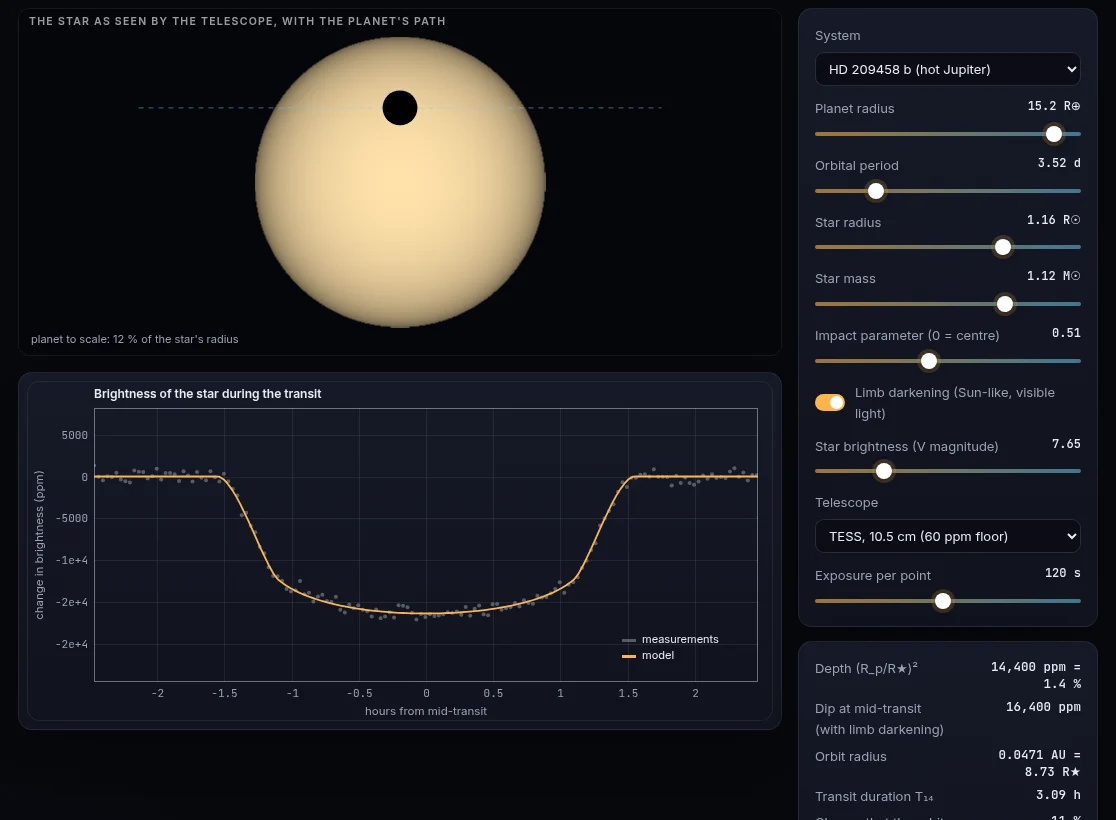
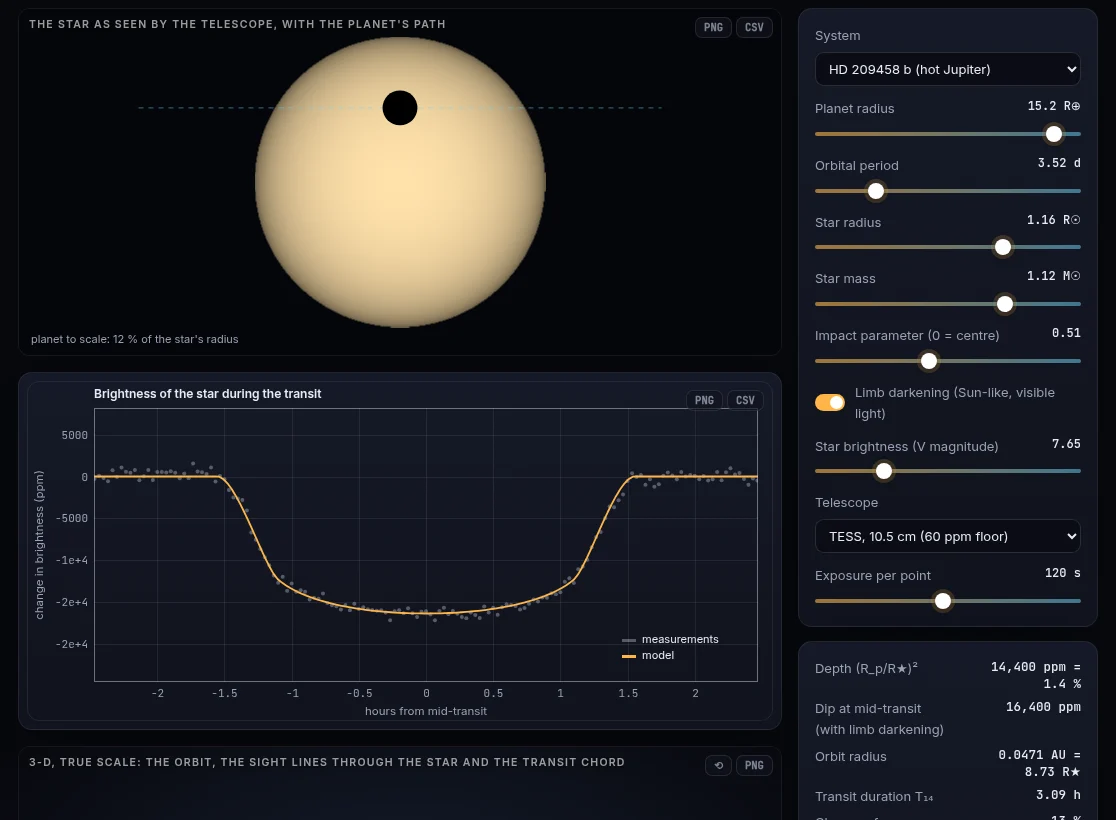
fix(transits): valid systems, exact occultation, exposure-averaged SNR (#229)
than the orbit are reported as impossible systems, not as missed
transits. The transit chance is (R★ + R_p)/a, below 1 for every valid
system. The occulted flux integrates I(r)·θ(r)·r over the overlap with
Gauss-Legendre on smoothed pieces. It matches the analytic circle
overlap to 1e-8 for k up to 1.83 and is exactly 0 when the planet
covers the star and exactly 1 without overlap.

supersampled to T14/200. The SNR comes from those exposures' deficits,
so ingress, egress, grazing dips and transits shorter than an exposure
count with their real depth. The plot, readouts and live equation use
the same sampled data.

transit and independent between transits (Pont et al. 2006):
SNR² = (Σd² − σ_r²(Σd)²/(σ_w² + nσ_r²))/σ_w² with a known baseline.
More exposures no longer beat the floor. Photon noise and floor are
shown separately, the aperture area is 10⁴π(D/2)² cm² with D in
metres, and the theory states the common V-band model and the limits
of the 7.1 threshold.

Closes #193
Closes #194
Closes #195

diff --git a/js/modules/transits.js b/js/modules/transits.js
@@ -3,7 +3,7 @@ import { h, controls, stage, readouts, imageCanvas, fmt, texNum } from '../lib/u
 import { header, lab, idea, rule, theory, references, liveCalc } from '../lib/page.js';
 import { plot } from '../lib/plot.js';
 import { makeRng } from '../lib/random.js';
-import { fluxAt, intensity, orbit, zAt, precision, transitSNR, REARTH, RSUN, AU, DAY } from '../lib/transit.js';
+import { fluxAt, intensity, orbit, zAt, precision, transitSNR, sampleTransit, REARTH, AU } from '../lib/transit.js';
 import { view3d } from '../lib/gl3d.js';
 import { transitScene } from '../lib/transit3d.js';
 import { t } from '../lib/i18n.js';
@@ -59,40 +59,57 @@ export default function mount(root, meta) {
     const st = ctl.state, sc = SCOPES[st.scope];
     const u = st.ld ? [0.4, 0.26] : [0, 0];
     const o = orbit({ P: st.P, Mstar: st.M, Rstar: st.R, Rp: st.Rp * REARTH, b: st.b });
-    const sig = precision({ V: st.V, D: sc.D, q: sc.q, t: st.t, floor: sc.floor });
-    const transits = isFinite(o.T14);
-    const nIn = transits ? Math.max(1, Math.floor(o.T14 / st.t)) : 0;
-    const centre = 1 - fluxAt(st.b, o.k, u[0], u[1]);
-    const snr1 = transits ? transitSNR(centre * 1e6, sig, nIn) : 0;
+    const sigW = precision({ V: st.V, D: sc.D, q: sc.q, t: st.t }), sigR = sc.floor; // ppm
+    const transits = o.valid && isFinite(o.T14);
+    const sys = { P: st.P, aR: o.aR, inc: o.inc, k: o.k, u1: u[0], u2: u[1], T14: o.T14 };
+    const centre = o.valid ? 1 - fluxAt(st.b, o.k, u[0], u[1]) : 0;
+    // the light curve over ±0.8 T14 (±3 h without a transit), and back-to-back exposures, each the
+    // average of the light curve over its length; the SNR comes from these same exposures
+    const span = transits ? Math.max(0.8 * o.T14, 1.5 * st.t) : 3 * 3600, n = 160;
+    const model = o.valid ? Array.from({ length: n }, (_, i) => { const tt = -span + (2 * span * i) / (n - 1); return [tt / 3600, fluxAt(zAt(tt, st.P, o.aR, o.inc), o.k, u[0], u[1])]; }) : [];
+    const exps = transits ? sampleTransit(sys, st.t, span) : [];
+    const d = exps.map(([, f]) => 1 - f), nIn = d.filter((x) => x > 0).length;
+    const snr1 = transits ? transitSNR(d, sigW * 1e-6, sigR * 1e-6) : 0;
     const need = snr1 > 0 ? Math.ceil((7.1 / snr1) ** 2) : Infinity;
-    // light curve over ±0.8 T14 (or ±3 h when there is no transit)
-    const span = transits ? 0.8 * o.T14 : 3 * 3600, n = 160;
-    const model = Array.from({ length: n }, (_, i) => { const tt = -span + (2 * span * i) / (n - 1); return [tt / 3600, fluxAt(zAt(tt, st.P, o.aR, o.inc), o.k, u[0], u[1])]; });
-    const rng = makeRng(7), pts = [];
-    for (let tt = -span; tt <= span; tt += st.t) { if (pts.length > 4000) break; pts.push([tt / 3600, fluxAt(zAt(tt, st.P, o.aR, o.inc), o.k, u[0], u[1]) + (sig * 1e-6) * rng.g()]); }
-    M = { st, o, u, sig, nIn, centre, snr1, need, model, pts, transits };
+    const sumD = d.reduce((a, x) => a + x, 0), sumD2 = d.reduce((a, x) => a + x * x, 0);
+    // what the telescope records: white noise per exposure and a slow drift of the floor's size
+    // (an Ornstein–Uhlenbeck process lasting about a transit), for the picture only
+    const rng = makeRng(7), tau = transits ? o.T14 : 3 * 3600, rho = Math.exp(-st.t / tau);
+    let drift = sigR * 1e-6 * rng.g();
+    const pts = (transits ? exps : Array.from({ length: Math.min(4001, 2 * Math.floor(span / st.t) + 1) }, (_, i) => [(i - Math.floor(span / st.t)) * st.t, 1]))
+      .map(([tt, f]) => { drift = rho * drift + Math.sqrt(1 - rho * rho) * sigR * 1e-6 * rng.g(); return [tt / 3600, f + sigW * 1e-6 * rng.g() + drift]; });
+    M = { st, o, u, sig: Math.hypot(sigW, sigR), centre, model, pts, transits };
+    const na = '—';
     ro.replaceChildren(readouts([
-      ['Depth (R_p/R★)²', fmt(o.depth * 1e6, 3) + ' ppm = ' + (o.depth * 100).toPrecision(2) + ' %'],
-      ['Dip at mid-transit (with limb darkening)', fmt(centre * 1e6, 3) + ' ppm'],
+      ['Depth (R_p/R★)²', o.k >= 1 ? t('{v} (planet larger than the star: up to 100 %)', { v: fmt(o.depth, 3) }) : fmt(o.depth * 1e6, 3) + ' ppm = ' + (o.depth * 100).toPrecision(2) + ' %'],
+      ['Dip at mid-transit (with limb darkening)', o.valid ? fmt(centre * 1e6, 3) + ' ppm' : na],
       ['Orbit radius', (o.a / AU).toPrecision(3) + ' AU = ' + o.aR.toPrecision(3) + ' R★'],
-      ['Transit duration T₁₄', transits ? (o.T14 / 3600).toPrecision(3) + ' h' : t('no transit (b > 1 + k)')],
-      ['Chance that the orbit is aligned (R★/a)', (o.prob * 100).toPrecision(2) + ' %'],
-      ['Precision per point', fmt(sig, 3) + ' ppm'],
-      ['SNR of one transit', transits ? snr1.toFixed(1) : '—'],
-      ['Transits for a detection (SNR 7.1)', isFinite(need) ? String(need) : '—'],
+      ['Transit duration T₁₄', transits ? (o.T14 / 3600).toPrecision(3) + ' h' : o.valid ? t('no transit (b > 1 + k)') : na],
+      ['Chance of any transit, (R★ + R_p)/a', o.valid ? (o.prob * 100).toPrecision(2) + ' %' : na],
+      ['Photon noise per exposure', fmt(sigW, 3) + ' ppm'],
+      ['Correlated floor per transit', fmt(sigR, 3) + ' ppm'],
+      ['Exposures in transit', transits ? String(nIn) : na],
+      ['SNR of one transit', transits ? snr1.toFixed(1) : na],
+      ['Transits for a detection (SNR 7.1)', isFinite(need) ? String(need) : na],
     ]));
-    calc.say(transits
-      ? t('The planet blocks <strong>{ppm} ppm</strong> of the starlight for <strong>{h} hours</strong>. With {sig} ppm of noise per {dt} s point, one transit is detected at signal-to-noise <strong>{snr}</strong>.', { ppm: fmt(centre * 1e6, 3), h: (o.T14 / 3600).toPrecision(2), sig: fmt(sig, 3), dt: st.t.toFixed(0), snr: snr1 >= 100 ? snr1.toFixed(0) : snr1.toFixed(1) })
-        + ' ' + (snr1 >= 7.1 ? t('That is a clear detection.') : t('About {n} transits ({y} years) are needed.', { n: need, y: fmt((need * st.P) / 365.25, 2) }))
-      : t('At impact parameter {b} the planet passes beside the star: no transit is seen from this direction.', { b: st.b.toFixed(2) }));
+    const D2 = { ppm: fmt(centre * 1e6, 3), h: (o.T14 / 3600).toPrecision(2), sig: fmt(sigW, 3), floor: fmt(sigR, 3), dt: st.t.toFixed(0), n: nIn, snr: snr1 >= 100 ? snr1.toFixed(0) : snr1.toFixed(1) };
+    calc.say(!o.valid
+      ? (o.reason === 'inside'
+        ? t('No such system: an orbit of {a} stellar radii lies inside the star (it must be wider than R★ + R_p = {m} R★). Lengthen the period, or choose a smaller star or planet.', { a: o.aR.toPrecision(3), m: (1 + o.k).toPrecision(3) })
+        : t('No such system: an impact parameter of {b} is larger than the orbit ({a} stellar radii), and no inclination gives it.', { b: st.b.toFixed(2), a: o.aR.toPrecision(3) }))
+      : transits
+        ? t('The planet blocks <strong>{ppm} ppm</strong> of the starlight at mid-transit for <strong>{h} hours</strong>. {n} exposures of {dt} s fall in the transit, each with {sig} ppm of photon noise, on top of a {floor} ppm floor that does not average away within one transit: one transit gives signal-to-noise <strong>{snr}</strong>.', D2)
+          + ' ' + (snr1 >= 7.1 ? t('That is a clear detection.') : t('About {n} transits ({y} years) are needed.', { n: need, y: fmt((need * st.P) / 365.25, 2) }))
+        : t('At impact parameter {b} the planet passes beside the star: no transit is seen from this direction.', { b: st.b.toFixed(2) }));
     calc.set(String.raw`\begin{aligned}
     \delta &= \left(\frac{R_p}{R_\star}\right)^2 = ${texNum(o.k, 3)}^2 = ${texNum(o.depth * 1e6, 3)}\ \text{ppm}\\
-    a &= \left(\frac{GM_\star P^2}{4\pi^2}\right)^{1/3} = ${texNum(o.a / AU, 3)}\ \text{AU}\\
+    a &= \left(\frac{GM_\star P^2}{4\pi^2}\right)^{1/3} = ${texNum(o.a / AU, 3)}\ \text{AU} = ${texNum(o.aR, 3)}\,R_\star\\
     T_{14} &= \frac{P}{\pi}\arcsin\!\left[\frac{R_\star}{a}\frac{\sqrt{(1+k)^2-b^2}}{\sin i}\right] = ${transits ? texNum(o.T14 / 3600, 3) + '\\ \\text{h}' : '\\text{—}'}\\
-    \mathrm{SNR} &= \frac{\delta}{\sigma}\sqrt{n} = ${transits ? texNum(snr1, 3) : '0'}
+    \mathrm{SNR}^2 &= \frac{1}{\sigma_w^2}\left[\sum d_i^2 - \frac{\sigma_r^2\left(\sum d_i\right)^2}{\sigma_w^2 + n\,\sigma_r^2}\right],\ n = ${nIn}\ \Rightarrow\ \mathrm{SNR} = ${transits ? texNum(snr1, 3) : '0'}
     \end{aligned}`);
     disc.redraw(); curve.redraw();
     // 3-D: the camera stays where the reader put it unless the orbit's size changes more than 1.5×
+    if (!o.valid) return;
     const keep = aR3d > 0 && o.aR / aR3d < 1.5 && aR3d / o.aR < 1.5;
     v3.setScene(transitScene({ aR: o.aR, inc: o.inc, k: o.k, b: st.b }), keep);
     if (!keep) aR3d = o.aR;
@@ -120,6 +137,11 @@ export default function mount(root, meta) {
   function drawCurve(ctx, w, hh) {
     if (!M) return;
     const { model, pts, centre, sig } = M;
+    if (!model.length) {
+      ctx.fillStyle = '#9aa1b5'; ctx.font = '13px Inter, sans-serif'; ctx.textAlign = 'center';
+      ctx.fillText(t('No light curve: these values do not describe a possible system.'), w / 2, hh / 2);
+      return;
+    }
     const lo = -Math.max(1.5 * centre * 1e6, 3 * sig), hi = Math.max(0.5 * centre * 1e6, 3 * sig);
     const clip = (v) => Math.max(lo, Math.min(hi, v));
     plot(ctx, w, hh, {
@@ -134,18 +156,21 @@ export default function mount(root, meta) {
 
   root.append(rule(String.raw`\[\delta = \left(\frac{R_p}{R_\star}\right)^2\]
 <p>The dip is the planet's share of the star's disc. Jupiter in front of the Sun: \((71\,492/695\,700)^2 = 1.06\) %. The Earth: \((6371/695\,700)^2 = 84\) ppm, a dip of 0.0084 % lasting 13 hours once a year. Small stars make small planets easier: the Earth-sized TRAPPIST-1 e dims its red dwarf by 0.5 %.</p>`,
-    String.raw`It ignores limb darkening, which makes the centre of the dip up to about 20 % deeper than \((R_p/R_\star)^2\) and rounds its shape, and it assumes an opaque planet: an atmosphere adds a wavelength-dependent ring that transmission spectroscopy measures. Starspots, grazing orbits and blended neighbouring stars change the apparent depth.`));
+    String.raw`It holds for a planet smaller than its star (\(k < 1\)); a larger one hides the whole star at most. It ignores limb darkening, which makes the centre of the dip up to about 20 % deeper than \((R_p/R_\star)^2\) and rounds its shape, and it assumes an opaque planet: an atmosphere adds a wavelength-dependent ring that transmission spectroscopy measures. Starspots, grazing orbits and blended neighbouring stars change the apparent depth.`));
 
   root.append(theory('Light curves, orbits and noise', String.raw`
 <div class="theory-cols"><div>
 <h3>The occulted flux</h3>
-<p>The star's surface brightness follows the quadratic limb-darkening law \(I(\mu)/I(1) = 1 - u_1(1-\mu) - u_2(1-\mu)^2\) with \(\mu = \sqrt{1-r^2}\); with limb darkening on, \(u_1 = 0.4\), \(u_2 = 0.26\), typical of a Sun-like star in visible light. Its total flux is \(\pi(1 - u_1/3 - u_2/6)\). The page integrates \(I\) over the planet's disc (radius \(k = R_p/R_\star\)) at projected separation \(z\) on a polar grid, which reproduces the analytic results of Mandel &amp; Agol (2002) for an opaque disc, including partial overlap at ingress and egress.</p>
+<p>The star's surface brightness follows the quadratic limb-darkening law \(I(\mu)/I(1) = 1 - u_1(1-\mu) - u_2(1-\mu)^2\) with \(\mu = \sqrt{1-r^2}\); with limb darkening on, \(u_1 = 0.4\), \(u_2 = 0.26\), typical of a Sun-like star in visible light. Its total flux is \(\pi(1 - u_1/3 - u_2/6)\). With the planet's disc (radius \(k = R_p/R_\star\)) at projected separation \(z\), the blocked light is \(\int I(r)\,\theta(r)\,r\,dr\), where \(\theta(r) = 2\arccos\!\big[(r^2+z^2-k^2)/(2rz)\big]\) is the angle of the circle of radius \(r\) that the planet covers (\(2\pi\) where it covers the whole circle). The page splits the integral where \(\theta\) or \(I\) has a square-root corner, maps each piece so the corners become smooth, and uses 32-point Gauss–Legendre quadrature. For a uniform star this reproduces the area of overlap of two circles to \(10^{-9}\) at every \(z\) and \(k\), including grazing contact and a planet larger than its star. With limb darkening it agrees with Mandel &amp; Agol (2002) for an opaque disc. No overlap gives exactly 1, and a planet that covers the whole star gives exactly 0. The rule's \((R_p/R_\star)^2\) is the area ratio; for \(k \ge 1\) the dip can never exceed 100 %.</p>
 <h3>Orbit</h3>
-<p>For a circular orbit, Kepler's third law gives the semi-major axis \(a\) from the period and the star's mass; the inclination follows from the impact parameter, \(\cos i = b R_\star/a\), and the projected separation is \(z = (a/R_\star)\sqrt{\sin^2\phi + \cos^2 i\cos^2\phi}\). The total duration \(T_{14}\) is the formula of Seager &amp; Mallén-Ornelas (2003), and \(R_\star/a\) is the probability that a randomly oriented orbit transits. The 3-D view shows why: the telescope sees the star through a cylinder of sight lines of radius \(R_\star\) (plus \(R_p\)), and a transit happens only if the orbit, a circle of radius \(a\), cuts through it. The gold chord is the part of the orbit inside the cylinder; the planet spends \(T_{14}\) on it, and the white segment at mid-transit is \(b\). For a hot Jupiter (\(a \approx 9R_\star\)) one orbit in nine is tilted little enough; for the Earth seen from afar (\(a = 215R_\odot\)) one in 215.</p>
+<p>For a circular orbit, Kepler's third law gives the semi-major axis \(a\) from the period and the star's mass; the inclination follows from the impact parameter, \(\cos i = b R_\star/a\), and the projected separation is \(z = (a/R_\star)\sqrt{\sin^2\phi + \cos^2 i\cos^2\phi}\). The total duration \(T_{14}\) is the formula of Seager &amp; Mallén-Ornelas (2003), and \((R_\star + R_p)/a\) is the probability that a randomly oriented orbit shows any transit, grazing ones included (\(R_\star/a\) for a small planet). The model is a detached circular orbit, so it needs \(a > R_\star + R_p\) and \(b \le a/R_\star\). Settings that break either describe no possible system, and the page says so instead of reporting a missed transit. The 3-D view shows why: the telescope sees the star through a cylinder of sight lines of radius \(R_\star\) (plus \(R_p\)), and a transit happens only if the orbit, a circle of radius \(a\), cuts through it. The gold chord is the part of the orbit inside the cylinder; the planet spends \(T_{14}\) on it, and the white segment at mid-transit is \(b\). For a hot Jupiter (\(a \approx 9R_\star\)) one orbit in nine is tilted little enough; for the Earth seen from afar (\(a = 215R_\odot\)) one in 215.</p>
 </div><div>
 <h3>Noise</h3>
-<p>Each point collects \(N_\gamma = 10^6\cdot10^{-0.4V}\,\pi(D/2)^2\,q\,t\) photons (V band, 100 nm wide, throughput \(q\)), giving a shot-noise precision \(1/\sqrt{N_\gamma}\), added in quadrature to a systematic floor for each telescope: pointing jitter, detector effects and, from the ground, scintillation and changing extinction. A transit of depth \(\delta\) sampled by \(n\) points of precision \(\sigma\) has \(\mathrm{SNR} = (\delta/\sigma)\sqrt{n}\); Kepler's pipeline required 7.1 for a detection.</p>
-<div class="callout">The noise floors are representative, not mission specifications; red noise from stellar granulation and spots, which grows with transit duration, is not modelled.</div>
+<p>Each exposure collects \(N_\gamma = 10^6\cdot10^{-0.4V}\cdot10^4\,\pi(D/2)^2\,q\,t\) photons, with \(D\) in metres (so \(10^4\pi(D/2)^2\) is the area in cm²), a V band 100 nm wide and throughput \(q\). That gives white photon noise \(\sigma_w = 1/\sqrt{N_\gamma}\), independent from one exposure to the next. On top of it each telescope has a floor \(\sigma_r\): pointing jitter, detector drifts and, from the ground, scintillation and changing extinction. Here the floor is modelled as noise that varies slowly, so it is shared by all the exposures of one transit and is independent from one transit to the next (Pont, Zucker &amp; Queloz 2006).</p>
+<p>Exposures follow each other without gaps (100 % duty cycle), one centred on mid-transit. Each records the light curve averaged over its length, so a long exposure smears ingress and egress, and a transit shorter than one exposure shows as a shallower dip. The average is taken over enough sub-intervals that each lasts at most \(T_{14}/200\) (Kipping 2010). The deficits \(d_i = 1 - F_i\) of the \(n\) exposures that overlap the transit give, against a known baseline,</p>
+\[\mathrm{SNR}^2 = \mathbf d^\top C^{-1}\mathbf d = \frac{1}{\sigma_w^2}\left[\sum d_i^2 - \frac{\sigma_r^2\left(\sum d_i\right)^2}{\sigma_w^2 + n\,\sigma_r^2}\right],\qquad C = \sigma_w^2 I + \sigma_r^2\,\mathbf 1\mathbf 1^\top .\]
+<p>For a box-shaped dip of depth \(\delta\) this is \(\delta/\sqrt{\sigma_w^2/n + \sigma_r^2}\). More exposures beat down the photon noise, but not the floor. A grazing, V-shaped transit counts only with its actual, smaller deficits. \(N\) independent transits give \(\sqrt N\) times one; Kepler's pipeline required 7.1 for a detection. That threshold belongs to a search over many periods with a known noise level, so here it only indicates what a detection takes.</p>
+<div class="callout">The telescopes' floors are illustrative, not mission specifications, and every telescope uses the same V-band photon model: bandpasses and stellar spectra are not modelled. The baseline is taken as known; in practice it is fitted from the data around the transit, which adds noise. Red noise from stellar granulation and spots, which grows with transit duration, is not modelled. The measurements in the plot show the photon noise and a slow drift of the floor's size lasting about one transit, for illustration.</div>
 </div></div>`));
   root.append(references([
     'K. Mandel and E. Agol, "Analytic light curves for planetary transit searches", Astrophys. J. 580, L171 (2002).',

diff --git a/js/lib/transit.js b/js/lib/transit.js
@@ -1,5 +1,5 @@
 // Exoplanet transits: the dip in starlight when a planet crosses its star. Light curve of a
-// limb-darkened star occulted by an opaque disc (numerical integration over the planet's disc),
+// limb-darkened star occulted by an opaque disc (numerical integration over the overlap),
 // orbit geometry from Kepler's third law, and the photometric noise of a telescope. Pure functions.
 // Lengths in units of the stellar radius unless stated.
 
@@ -10,40 +10,124 @@ export const G = 6.674e-11, MSUN = 1.989e30, RSUN = 6.957e8, REARTH = 6.371e6, R
 export const intensity = (r, u1, u2) => { if (r >= 1) return 0; const m = 1 - Math.sqrt(1 - r * r); return 1 - u1 * m - u2 * m * m; };
 export const totalFlux = (u1, u2) => Math.PI * (1 - u1 / 3 - u2 / 6);
 
+// Gauss–Legendre nodes and weights on [−1, 1] (Newton on P_n), computed once.
+function gaussLegendre(n) {
+  const x = new Float64Array(n), w = new Float64Array(n);
+  for (let i = 0; i < n; i++) {
+    let z = Math.cos((Math.PI * (i + 0.75)) / (n + 0.5)), dp = 1;
+    for (let it = 0; it < 100; it++) {
+      let p0 = 1, p1 = z;
+      for (let j = 2; j <= n; j++) { const p2 = ((2 * j - 1) * z * p1 - (j - 1) * p0) / j; p0 = p1; p1 = p2; }
+      dp = (n * (z * p1 - p0)) / (z * z - 1);
+      const dz = p1 / dp; z -= dz;
+      if (Math.abs(dz) < 1e-15) break;
+    }
+    x[i] = z; w[i] = 2 / ((1 - z * z) * dp * dp);
+  }
+  return { x, w };
+}
+const GL = { 32: gaussLegendre(32) };
+
 // Relative flux when the planet (radius k) is at projected distance z from the star's centre.
-// Polar quadrature over the planet's disc, exact in the limit of many points.
-export function fluxAt(z, k, u1, u2, nr = 24, nt = 48) {
-  if (z >= 1 + k) return 1;
+// The blocked light is ∫ I(r) θ(r) r dr over the star, θ(r) being the angle of the circle of
+// radius r that the planet covers: 2 arccos((r² + z² − k²)/(2rz)), or 2π where the planet covers the
+// whole circle. The integral is split where θ or I stops being smooth (|z − k| and the limb) and
+// each piece is mapped by r = a + (b − a) sin²(πs/2), which removes the square-root endpoints, then
+// integrated by n-point Gauss–Legendre (n = 32: relative error below 10⁻⁹). No overlap gives
+// exactly 1, a planet covering the whole star exactly 0.
+export function fluxAt(z, k, u1, u2, n = 32) {
+  const g = GL[n] || (GL[n] = gaussLegendre(n));
+  z = Math.abs(z);
+  if (!(k > 0) || z >= 1 + k) return 1;
+  if (z + 1 <= k) return 0;
+  const theta = (r) => {
+    if (r <= k - z) return 2 * Math.PI;
+    if (r >= z + k || r <= z - k || z === 0) return 0;
+    return 2 * Math.acos(Math.max(-1, Math.min(1, (r * r + z * z - k * k) / (2 * r * z))));
+  };
+  const lo = Math.max(0, z - k), hi = Math.min(1, z + k), cuts = [lo];
+  if (k - z > lo && k - z < hi) cuts.push(k - z);
+  cuts.push(hi);
   let blocked = 0;
-  for (let i = 0; i < nr; i++) {
-    const rr = ((i + 0.5) / nr) * k, dA = (k / nr) * rr * ((2 * Math.PI) / nt);
-    for (let j = 0; j < nt; j++) {
-      const t = ((j + 0.5) / nt) * 2 * Math.PI, x = z + rr * Math.cos(t), y = rr * Math.sin(t);
-      blocked += intensity(Math.hypot(x, y), u1, u2) * dA;
+  for (let c = 0; c + 1 < cuts.length; c++) {
+    const a = cuts[c], b = cuts[c + 1];
+    for (let i = 0; i < n; i++) {
+      const s = (g.x[i] + 1) / 2, sn = Math.sin((Math.PI * s) / 2), r = a + (b - a) * sn * sn;
+      const dr = (b - a) * (Math.PI / 2) * Math.sin(Math.PI * s); // dr/ds
+      blocked += (g.w[i] / 2) * intensity(r, u1, u2) * theta(r) * r * dr;
     }
   }
-  return 1 - blocked / totalFlux(u1, u2);
+  return Math.max(0, 1 - blocked / totalFlux(u1, u2));
+}
+// Area of overlap of the unit disc and a disc of radius k at distance z (for tests and the
+// uniform-star check).
+export function overlapArea(z, k) {
+  z = Math.abs(z);
+  if (z >= 1 + k) return 0;
+  if (z <= k - 1) return Math.PI;
+  if (z <= 1 - k) return Math.PI * k * k;
+  const a1 = Math.acos((z * z + k * k - 1) / (2 * z * k)), a2 = Math.acos((z * z + 1 - k * k) / (2 * z));
+  return k * k * a1 + a2 - 0.5 * Math.sqrt(Math.max(0, (-z + k + 1) * (z + k - 1) * (z - k + 1) * (z + k + 1)));
 }
 
 // Orbit: semi-major axis from Kepler's third law (circular orbit), impact parameter, total
-// duration T₁₄ (Seager & Mallén-Ornelas 2003) and the transit probability R★/a.
+// duration T₁₄ (Seager & Mallén-Ornelas 2003) and the probability (R★ + R_p)/a that a random
+// orientation shows any transit. The model is a detached circular orbit: a ≤ R★ + R_p (the planet
+// inside its star) or b > a/R★ (no inclination gives it) is not a system; valid = false and reason
+// 'inside' or 'b' say why. A valid orbit with b ≥ 1 + k is a real miss (T14 = NaN).
 export function orbit({ P, Mstar, Rstar, Rp, b }) {
   const a = Math.cbrt((G * Mstar * MSUN * (P * DAY) ** 2) / (4 * Math.PI * Math.PI)); // m
-  const aR = a / (Rstar * RSUN), k = Rp / (Rstar * RSUN);
-  const inc = Math.acos(Math.min(1, b / aR));
+  const aR = a / (Rstar * RSUN), k = Rp / (Rstar * RSUN), base = { a, aR, k, depth: k * k, prob: Math.min(1, (1 + k) / aR) };
+  if (aR <= 1 + k) return { ...base, valid: false, reason: 'inside', inc: NaN, T14: NaN };
+  if (b > aR) return { ...base, valid: false, reason: 'b', inc: NaN, T14: NaN };
+  const inc = Math.acos(b / aR);
   const arg = Math.sqrt(Math.max(0, (1 + k) ** 2 - b * b)) / (aR * Math.sin(inc));
-  const T14 = b >= 1 + k || arg >= 1 ? NaN : ((P * DAY) / Math.PI) * Math.asin(arg); // s
-  return { a, aR, k, inc, T14, prob: 1 / aR, depth: k * k };
+  const T14 = b >= 1 + k ? NaN : ((P * DAY) / Math.PI) * Math.asin(Math.min(1, arg)); // s
+  return { ...base, valid: true, inc, T14 };
 }
 // Projected separation z(t) at time t (s) from mid-transit.
 export const zAt = (t, P, aR, inc) => { const ph = (2 * Math.PI * t) / (P * DAY); return aR * Math.hypot(Math.sin(ph), Math.cos(inc) * Math.cos(ph)); };
 
-// Photometric precision per exposure: photon noise of a star of magnitude V through aperture D (m)
-// with throughput q in a 100 nm-wide V band (10⁶ photons s⁻¹ cm⁻² at V = 0), added in quadrature to
-// a systematic floor (ppm). Returns ppm per exposure of length t (s).
-export function precision({ V, D, q = 0.5, t, floor }) {
-  const photons = 1e6 * Math.pow(10, -0.4 * V) * Math.PI * (D * 50) ** 2 * q * t;
-  return Math.hypot(1e6 / Math.sqrt(photons), floor);
+// Mean relative flux over an exposure of length texp (s) centred on tc (s from mid-transit). An
+// exposure that does not overlap the transit, |tc| ≥ (T14 + texp)/2, sees exactly 1; otherwise
+// the light curve is averaged over m equal sub-intervals at their midpoints, m chosen so that each
+// lasts at most T14/200 (supersampling, Kipping 2010), unless m is given.
+export function exposureFlux(tc, texp, sys, m) {
+  const { P, aR, inc, k, u1, u2, T14 } = sys;
+  if (!(T14 > 0) || Math.abs(tc) >= (T14 + texp) / 2) return 1;
+  m = m || Math.min(2000, Math.max(1, Math.ceil(texp / (T14 / 200))));
+  let s = 0;
+  for (let i = 0; i < m; i++) s += fluxAt(zAt(tc - texp / 2 + ((i + 0.5) * texp) / m, P, aR, inc), k, u1, u2);
+  return s / m;
 }
-// Signal-to-noise ratio of the transit depth from n in-transit exposures with precision σ (ppm).
-export const transitSNR = (depthPPM, sigmaPPM, n) => (depthPPM / sigmaPPM) * Math.sqrt(n);
+// The exposures of one transit: back to back (100 % duty cycle), one centred on mid-transit,
+// covering ±span. Returns [time, mean flux] pairs.
+export function sampleTransit(sys, texp, span, max = 4000) {
+  const out = [], n = Math.min(max >> 1, Math.floor(span / texp));
+  for (let i = -n; i <= n; i++) out.push([i * texp, exposureFlux(i * texp, texp, sys)]);
+  return out;
+}
+
+// Photon noise per exposure: a star of magnitude V through an aperture of diameter D (m) with
+// throughput q in a 100 nm-wide V band (10⁶ photons s⁻¹ cm⁻² at V = 0, so the collecting area is
+// 10⁴ π (D/2)² cm²). Returns ppm per exposure of length t (s). The same V-band model is used for every
+// telescope: bandpasses and stellar spectra are not modelled.
+export function precision({ V, D, q = 0.5, t }) {
+  const photons = 1e6 * Math.pow(10, -0.4 * V) * 1e4 * Math.PI * (D / 2) ** 2 * q * t;
+  return 1e6 / Math.sqrt(photons);
+}
+// Signal-to-noise ratio of one transit, from its exposure-averaged deficits d_i = 1 − F_i, with
+// white noise σ_w per exposure (independent) and a correlated floor σ_r shared by every in-transit
+// exposure (pointing, detector and atmospheric drifts slower than the transit; Pont, Zucker &
+// Queloz 2006), against a known baseline. SNR² = dᵀC⁻¹d with C = σ_w² I + σ_r² 11ᵀ over the n
+// in-transit exposures:
+//   SNR² = (Σd² − σ_r² (Σd)² / (σ_w² + n σ_r²)) / σ_w²,
+// which for a box of depth δ is δ² / (σ_w²/n + σ_r²): more exposures cannot beat the floor.
+// Transits are independent of each other, so N of them give √N times this. Same units for all.
+export function transitSNR(d, sigmaW, sigmaR = 0) {
+  let s1 = 0, s2 = 0, n = 0;
+  for (const x of d) if (x > 0) { s1 += x; s2 += x * x; n++; }
+  if (!n || !(sigmaW > 0)) return 0;
+  const w2 = sigmaW * sigmaW, r2 = sigmaR * sigmaR;
+  return Math.sqrt(Math.max(0, (s2 - (r2 * s1 * s1) / (w2 + n * r2)) / w2));
+}

diff --git a/js/locales/fr.js b/js/locales/fr.js
@@ -1102,8 +1102,15 @@ export default {
   "Dip at mid-transit (with limb darkening)": "Baisse à mi-transit (avec assombrissement centre-bord)",
   "Orbit radius": "Rayon de l’orbite",
   "Transit duration T₁₄": "Durée du transit T₁₄",
-  "Chance that the orbit is aligned (R★/a)": "Probabilité que l’orbite soit alignée (R★/a)",
-  "Precision per point": "Précision par point",
+  "{v} (planet larger than the star: up to 100 %)": "{v} (planète plus grande que l’étoile : au plus 100 %)",
+  "No such system: an orbit of {a} stellar radii lies inside the star (it must be wider than R★ + R_p = {m} R★). Lengthen the period, or choose a smaller star or planet.": "Aucun système possible : une orbite de {a} rayons stellaires se trouve à l’intérieur de l’étoile (elle doit dépasser R★ + R_p = {m} R★). Allongez la période ou choisissez une étoile ou une planète plus petite.",
+  "No such system: an impact parameter of {b} is larger than the orbit ({a} stellar radii), and no inclination gives it.": "Aucun système possible : un paramètre d’impact de {b} dépasse l’orbite ({a} rayons stellaires), aucune inclinaison ne le donne.",
+  "The planet blocks <strong>{ppm} ppm</strong> of the starlight at mid-transit for <strong>{h} hours</strong>. {n} exposures of {dt} s fall in the transit, each with {sig} ppm of photon noise, on top of a {floor} ppm floor that does not average away within one transit: one transit gives signal-to-noise <strong>{snr}</strong>.": "La planète masque <strong>{ppm} ppm</strong> de la lumière de l’étoile au milieu du transit, pendant <strong>{h} heures</strong>. {n} poses de {dt} s tombent dans le transit, chacune avec {sig} ppm de bruit de photons, plus un plancher de {floor} ppm qui ne se moyenne pas au cours d’un transit : un transit donne un rapport signal sur bruit de <strong>{snr}</strong>.",
+  "No light curve: these values do not describe a possible system.": "Pas de courbe de lumière : ces valeurs ne décrivent aucun système possible.",
+  "Chance of any transit, (R★ + R_p)/a": "Probabilité d’un transit, (R★ + R_p)/a",
+  "Photon noise per exposure": "Bruit de photons par pose",
+  "Correlated floor per transit": "Plancher corrélé par transit",
+  "Exposures in transit": "Poses pendant le transit",
   "SNR of one transit": "RSB d’un transit",
   "Transits for a detection (SNR 7.1)": "Transits pour une détection (RSB 7,1)",
   "The star as seen by the telescope, with the planet's path": "L’étoile vue par le télescope, avec la trajectoire de la planète",
@@ -2054,7 +2061,6 @@ export default {
   "No tilt: the plane of sharp focus is parallel to the sensor, {s} m away.": "Pas de bascule : le plan de netteté est parallèle au capteur, à {s} m.",
   "The camera points {p}° upwards, so vertical lines converge (keystone distortion).": "L’appareil pointe {p}° vers le haut, donc les verticales convergent (distorsion trapézoïdale).",
   "The camera is level and the lens is shifted {s} mm: verticals stay parallel, and the lens must cover an image circle of {c} mm.": "L’appareil est de niveau et l’objectif est décentré de {s} mm : les verticales restent parallèles, et l’objectif doit couvrir un cercle image de {c} mm.",
-  "The planet blocks <strong>{ppm} ppm</strong> of the starlight for <strong>{h} hours</strong>. With {sig} ppm of noise per {dt} s point, one transit is detected at signal-to-noise <strong>{snr}</strong>.": "La planète bloque <strong>{ppm} ppm</strong> de la lumière de l’étoile pendant <strong>{h} heures</strong>. Avec {sig} ppm de bruit par point de {dt} s, un transit est détecté avec un rapport signal/bruit de <strong>{snr}</strong>.",
   "That is a clear detection.": "C’est une détection nette.",
   "About {n} transits ({y} years) are needed.": "Il faut environ {n} transits ({y} ans).",
   "At impact parameter {b} the planet passes beside the star: no transit is seen from this direction.": "Avec un paramètre d’impact de {b}, la planète passe à côté de l’étoile : aucun transit n’est vu depuis cette direction.",

diff --git a/js/locales/es.js b/js/locales/es.js
@@ -1102,8 +1102,15 @@ export default {
   "Dip at mid-transit (with limb darkening)": "Caída a mitad del tránsito (con oscurecimiento del limbo)",
   "Orbit radius": "Radio de la órbita",
   "Transit duration T₁₄": "Duración del tránsito T₁₄",
-  "Chance that the orbit is aligned (R★/a)": "Probabilidad de que la órbita esté alineada (R★/a)",
-  "Precision per point": "Precisión por punto",
+  "{v} (planet larger than the star: up to 100 %)": "{v} (planeta mayor que la estrella: como mucho 100 %)",
+  "No such system: an orbit of {a} stellar radii lies inside the star (it must be wider than R★ + R_p = {m} R★). Lengthen the period, or choose a smaller star or planet.": "Ningún sistema posible: una órbita de {a} radios estelares queda dentro de la estrella (debe ser mayor que R★ + R_p = {m} R★). Alargue el periodo o elija una estrella o un planeta más pequeño.",
+  "No such system: an impact parameter of {b} is larger than the orbit ({a} stellar radii), and no inclination gives it.": "Ningún sistema posible: un parámetro de impacto de {b} es mayor que la órbita ({a} radios estelares), y ninguna inclinación lo da.",
+  "The planet blocks <strong>{ppm} ppm</strong> of the starlight at mid-transit for <strong>{h} hours</strong>. {n} exposures of {dt} s fall in the transit, each with {sig} ppm of photon noise, on top of a {floor} ppm floor that does not average away within one transit: one transit gives signal-to-noise <strong>{snr}</strong>.": "El planeta bloquea <strong>{ppm} ppm</strong> de la luz de la estrella en el centro del tránsito, durante <strong>{h} horas</strong>. {n} exposiciones de {dt} s caen en el tránsito, cada una con {sig} ppm de ruido de fotones, sobre un suelo de {floor} ppm que no se promedia dentro de un tránsito: un tránsito da una relación señal-ruido de <strong>{snr}</strong>.",
+  "No light curve: these values do not describe a possible system.": "Sin curva de luz: estos valores no describen un sistema posible.",
+  "Chance of any transit, (R★ + R_p)/a": "Probabilidad de un tránsito, (R★ + R_p)/a",
+  "Photon noise per exposure": "Ruido de fotones por exposición",
+  "Correlated floor per transit": "Suelo correlacionado por tránsito",
+  "Exposures in transit": "Exposiciones en el tránsito",
   "SNR of one transit": "SNR de un tránsito",
   "Transits for a detection (SNR 7.1)": "Tránsitos para una detección (SNR 7,1)",
   "The star as seen by the telescope, with the planet's path": "La estrella vista por el telescopio, con la trayectoria del planeta",
@@ -2054,7 +2061,6 @@ export default {
   "No tilt: the plane of sharp focus is parallel to the sensor, {s} m away.": "Sin inclinación: el plano de enfoque es paralelo al sensor, a {s} m.",
   "The camera points {p}° upwards, so vertical lines converge (keystone distortion).": "La cámara apunta {p}° hacia arriba, así que las verticales convergen (distorsión trapezoidal).",
   "The camera is level and the lens is shifted {s} mm: verticals stay parallel, and the lens must cover an image circle of {c} mm.": "La cámara está nivelada y el objetivo desplazado {s} mm: las verticales siguen paralelas, y el objetivo debe cubrir un círculo de imagen de {c} mm.",
-  "The planet blocks <strong>{ppm} ppm</strong> of the starlight for <strong>{h} hours</strong>. With {sig} ppm of noise per {dt} s point, one transit is detected at signal-to-noise <strong>{snr}</strong>.": "El planeta bloquea <strong>{ppm} ppm</strong> de la luz de la estrella durante <strong>{h} horas</strong>. Con {sig} ppm de ruido por punto de {dt} s, un tránsito se detecta con una relación señal/ruido de <strong>{snr}</strong>.",
   "That is a clear detection.": "Es una detección clara.",
   "About {n} transits ({y} years) are needed.": "Hacen falta unos {n} tránsitos ({y} años).",
   "At impact parameter {b} the planet passes beside the star: no transit is seen from this direction.": "Con un parámetro de impacto de {b} el planeta pasa junto a la estrella: desde esta dirección no se ve ningún tránsito.",

diff --git a/js/locales/de.js b/js/locales/de.js
@@ -1102,8 +1102,15 @@ export default {
   "Dip at mid-transit (with limb darkening)": "Einbruch in der Transitmitte (mit Randverdunkelung)",
   "Orbit radius": "Bahnradius",
   "Transit duration T₁₄": "Transitdauer T₁₄",
-  "Chance that the orbit is aligned (R★/a)": "Wahrscheinlichkeit, dass die Bahn ausgerichtet ist (R★/a)",
-  "Precision per point": "Genauigkeit pro Punkt",
+  "{v} (planet larger than the star: up to 100 %)": "{v} (Planet größer als der Stern: höchstens 100 %)",
+  "No such system: an orbit of {a} stellar radii lies inside the star (it must be wider than R★ + R_p = {m} R★). Lengthen the period, or choose a smaller star or planet.": "Kein mögliches System: Eine Bahn von {a} Sternradien liegt im Stern (sie muss weiter sein als R★ + R_p = {m} R★). Verlängern Sie die Periode oder wählen Sie einen kleineren Stern oder Planeten.",
+  "No such system: an impact parameter of {b} is larger than the orbit ({a} stellar radii), and no inclination gives it.": "Kein mögliches System: Ein Stoßparameter von {b} ist größer als die Bahn ({a} Sternradien), keine Neigung ergibt ihn.",
+  "The planet blocks <strong>{ppm} ppm</strong> of the starlight at mid-transit for <strong>{h} hours</strong>. {n} exposures of {dt} s fall in the transit, each with {sig} ppm of photon noise, on top of a {floor} ppm floor that does not average away within one transit: one transit gives signal-to-noise <strong>{snr}</strong>.": "Der Planet blockiert zur Transitmitte <strong>{ppm} ppm</strong> des Sternlichts, für <strong>{h} Stunden</strong>. {n} Belichtungen von {dt} s fallen in den Transit, jede mit {sig} ppm Photonenrauschen, dazu ein Sockel von {floor} ppm, der sich innerhalb eines Transits nicht herausmittelt: Ein Transit ergibt ein Signal-Rausch-Verhältnis von <strong>{snr}</strong>.",
+  "No light curve: these values do not describe a possible system.": "Keine Lichtkurve: Diese Werte beschreiben kein mögliches System.",
+  "Chance of any transit, (R★ + R_p)/a": "Wahrscheinlichkeit eines Transits, (R★ + R_p)/a",
+  "Photon noise per exposure": "Photonenrauschen pro Belichtung",
+  "Correlated floor per transit": "Korrelierter Sockel pro Transit",
+  "Exposures in transit": "Belichtungen im Transit",
   "SNR of one transit": "SNR eines Transits",
   "Transits for a detection (SNR 7.1)": "Transits für einen Nachweis (SNR 7,1)",
   "The star as seen by the telescope, with the planet's path": "Der Stern, wie das Teleskop ihn sieht, mit der Bahn des Planeten",
@@ -2054,7 +2061,6 @@ export default {
   "No tilt: the plane of sharp focus is parallel to the sensor, {s} m away.": "Keine Neigung: die Schärfeebene liegt parallel zum Sensor, {s} m entfernt.",
   "The camera points {p}° upwards, so vertical lines converge (keystone distortion).": "Die Kamera zeigt {p}° nach oben, daher laufen senkrechte Linien zusammen (stürzende Linien).",
   "The camera is level and the lens is shifted {s} mm: verticals stay parallel, and the lens must cover an image circle of {c} mm.": "Die Kamera ist waagerecht und das Objektiv um {s} mm verschoben: Senkrechte bleiben parallel, und das Objektiv muss einen Bildkreis von {c} mm ausleuchten.",
-  "The planet blocks <strong>{ppm} ppm</strong> of the starlight for <strong>{h} hours</strong>. With {sig} ppm of noise per {dt} s point, one transit is detected at signal-to-noise <strong>{snr}</strong>.": "Der Planet blockiert <strong>{ppm} ppm</strong> des Sternlichts für <strong>{h} Stunden</strong>. Mit {sig} ppm Rauschen pro {dt}-s-Messpunkt wird ein Transit mit einem Signal-Rausch-Verhältnis von <strong>{snr}</strong> nachgewiesen.",
   "That is a clear detection.": "Das ist ein klarer Nachweis.",
   "About {n} transits ({y} years) are needed.": "Es werden etwa {n} Transits ({y} Jahre) gebraucht.",
   "At impact parameter {b} the planet passes beside the star: no transit is seen from this direction.": "Bei einem Stoßparameter von {b} zieht der Planet neben dem Stern vorbei: aus dieser Richtung ist kein Transit zu sehen.",

diff --git a/CHANGELOG.md b/CHANGELOG.md
@@ -13,6 +13,11 @@ The format follows [Keep a Changelog](https://keepachangelog.com/en/1.1.0/), and
 - Lens flare & ghosts: two formulas in the theory (the ghost system's matrix and the thin-film transfer matrices) used `psmallmatrix`, which KaTeX does not support, and showed as red error text. They now use `\left(\begin{smallmatrix}…\end{smallmatrix}\right)`. A test renders every TeX environment used in the sources with the vendored KaTeX, and the browser smoke test fails on any `.katex-error` on every page and after every guided tour (#206).
 - Autofocus: the blur and the shift between the half-pupil images used |Δv|/N, which holds only at low magnification (at 200 mm with the subject at 0.6 m and the lens at 10 m it overstated the blur by half). The kernels, the predicted shift, the readouts and the camera's conversion of the measured shift into a lens movement now all follow the thin-lens cone, b = A|Δv|/v(u), consistent with the depth-of-field page. A defocus too large for the ±400-pixel search or the simulated strip is reported as not measurable, and a contrast search that stops out of focus is reported too (#198).
 - Live waves (FDTD): the theory claimed a phase error below 1 %, but that holds only in vacuum; in glass the settings allow as few as 3.2 cells per wavelength (12 % error at 8 cells and n = 2). The page now computes the exact two-dimensional Yee dispersion in the densest material, shows the worst-direction phase error as a readout, and warns in the live calculation when it exceeds the stated 2 % target, since the predictions shown are for the continuum. The theory gives the dispersion relation and the resolution each index needs; tests compare it with wavelengths measured in the simulation and check second-order convergence (#209).
+- Exoplanet transits:
+  - Settings with the orbit inside the star, or an impact parameter wider than the orbit, were shown as a missed transit, with a "probability" above 100 %. They are now reported as impossible systems. The transit chance is (R★ + R_p)/a, below 1 for every valid system (#193).
+  - The occulted flux was a fixed polar grid over the planet, which gave negative or positive flux when a planet larger than the star covered it entirely. It is now integrated over the overlap, matches the analytic circle overlap to 10⁻⁸ and is exactly 0 at full coverage (#193).
+  - Each exposure now records the light curve averaged over its length (up to 30 min), and the SNR comes from these sampled deficits, so ingress, egress, grazing V-shaped dips and transits shorter than one exposure count with their real depth (#194).
+  - The telescopes' floors are now noise shared by all the exposures of one transit and independent between transits (Pont et al. 2006), so more exposures no longer beat them. Readouts show photon noise and floor separately. The photon formula's aperture units are stated correctly, and the theory says that the V-band model is the same for every telescope (#195).
 - Halos, rainbows & glories: Lorenz–Mie scattering by large drops was wrong near the antisolar point. The logarithmic derivative's downward recurrence started from zero only 16 orders above mx, which left errors the recurrence does not damp: the backscatter at x = 2000 was 65 times too bright, at x = 500 still 12 % off. It now starts from the exact value of Lentz's continued fraction (`logDerivCF`), and tests compare the angular intensities at x = 100–2000 with an independent 40-digit calculation and the report's SciPy values (#208).
 - Ray tracer: prescriptions from shared links were applied without validation, and the validator let through non-finite and absurd values, model glasses with n_d ≤ 1 or V_d = 0, malformed aspheric terms and unlimited sizes. Files, links and edits now pass one parser that keeps only the supported fields, and one validator with documented limits (finite numbers, at most 64 surfaces, 512 KB files, bounded pupil, field, spacings, conics and aspheric terms, sensible model glasses). A rejected link or file is reported as text and the last good lens stays (#192).
 - Offline app: the service worker installed and took control even when caching the app failed (one unreachable file was enough), leaving an "offline" app with nothing cached. It now installs only once every file is cached, so the browser keeps the previous worker (or none) and tries again on the next visit; a failed update keeps the previous complete copy and the page logs a warning. `scripts/offline.mjs` (part of `npm run smoke`) checks a first visit, an update and a worker upgrade with an injected HTTP 503, offline use after each, and recovery (#213).

diff --git a/README.md b/README.md
@@ -653,7 +653,7 @@ Interference filters pass bluer light at an angle: why a 3 nm hydrogen-alpha fil
 **Exoplanet transits** · `#/transits`<br>
 <img src="docs/screenshots/transits.webp" alt="Transit of HD 209458 b: a limb-darkened star with the planet's path and the light curve with simulated TESS measurements">
 
-The dip in starlight as a planet crosses its star: depth (R_p/R★)², limb darkening, duration from Kepler's law, transit probability, and the signal-to-noise ratio a backyard telescope, TESS, Kepler or JWST would reach. A **3-D view** at true scale shows the star, the tilted orbit, the cylinder of sight lines through the star towards the telescope, the transit chord and the impact parameter.
+The dip in starlight as a planet crosses its star: depth (R_p/R★)², limb darkening, duration from Kepler's law, transit probability, and the signal-to-noise ratio a backyard telescope, TESS, Kepler or JWST would reach, from exposure-averaged measurements with photon noise and a correlated floor that does not average away within a transit. Settings that describe no possible system (an orbit inside the star) are reported as such. A **3-D view** at true scale shows the star, the tilted orbit, the cylinder of sight lines through the star towards the telescope, the transit chord and the impact parameter.
 
 </td>
 </tr>
@@ -1097,6 +1097,8 @@ The numerical core was checked against published or analytically known values. E
 | Shadow of M87* (6.5 × 10⁹ M☉, 16.8 Mpc) | 39.7 µas | EHT ring 42 ± 3 µas (the ring lies just outside the shadow) |
 | Autofocus defocus blur, 50 mm f/2 at 2 m, subject 3 m; 200 mm f/2, 0.6 m ↔ 10 m | 213.675 µm; 31.973 mm and 47.000 mm, half-pupil shift 0.424 A Δv/v | Thin-lens similar triangles, b = A\|Δv\|/v(u), and a ray trace through both pupil halves |
 | FDTD grid wavelength, λ = 8 cells in glass of n = 2 (S = 0.5) | 3.509 cells, measured in the simulation within 0.2 % | Yee dispersion relation π/asin(n sin(πS/λ)/S) = 3.509205 (continuum λ/n = 4) |
+| Transit occultation, uniform star, z = 0…1 + k, k = 0.01…1.83 | 1 − F equals the circle overlap / π to 10⁻⁸; full coverage exactly 0 | Analytic area of overlap of two circles |
+| Transit SNR, box of depth δ, n exposures | δ/√(σ_w²/n + σ_r²) | Pont, Zucker & Queloz (2006) |
 | Mie intensity i(θ), x = 100–2000, m = 1.333 (and 1.3363 at 505 nm), θ = 180°, 179.5°, 175°, 165°, 142°, 138°, 90°, 30° | agrees to 10⁻⁸ (backscatter at x = 2000: 24 850.349) | Independent 40-digit Bohren–Huffman calculation (ψ_n by Miller recurrence); SciPy values of the validation report (#208) |
 | Page–Thorne disk flux, radial bracket at r = 7, 10, 20, 60 M | equals ∫ (t² − 6)/(t² − 3) dt from √6 to √r to 10⁻⁹; vanishes quadratically at the ISCO | Page & Thorne 1974, Schwarzschild limit (log coefficient √3/2) |
 | Bench: traced prism deviation, N-SF11 at 60° incidence (450 / 550 / 650 nm) | 72.261° / 67.639° / 65.564° | i + arcsin(n sin(A − r₁)) − A, same to 10⁻⁶° |
